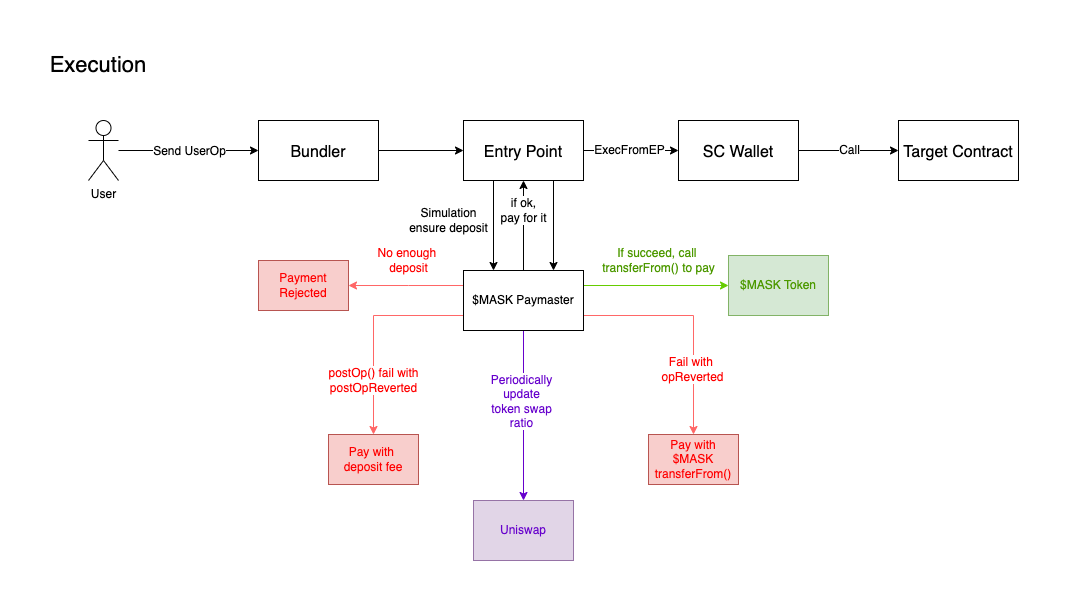
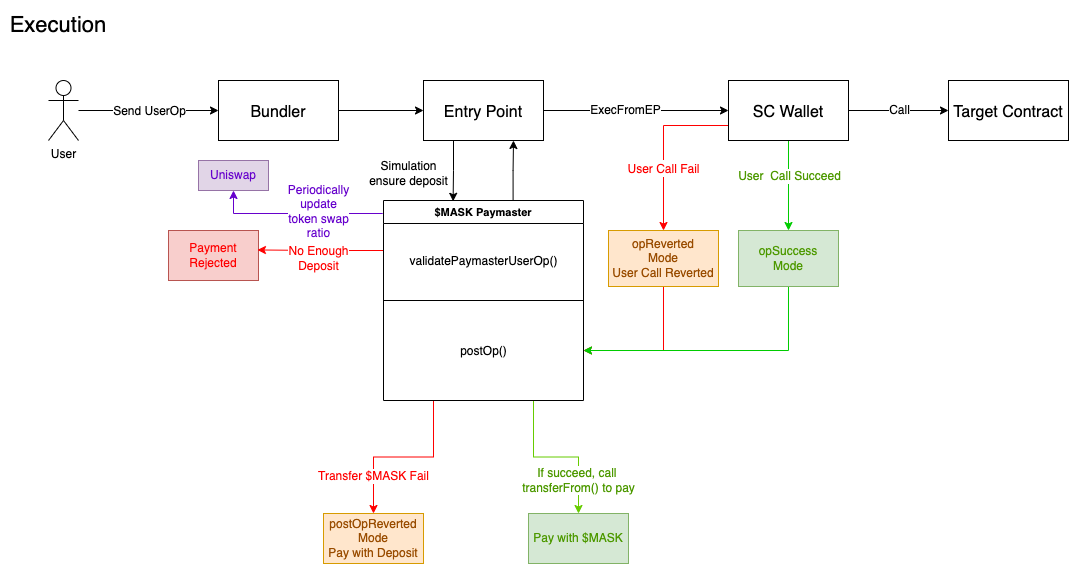
docs: modify workflow for paymaster

diff --git a/DOC/Workflow.md b/DOC/Workflow.md
@@ -34,11 +34,13 @@ We hope to give user an entirely gas-free procedure, thus, we have a `verifying 
 
 ![preparation](preparation.png)
 
-`Verifying paymaster` could sponsor transaction for qualified users. This paymaster will be used in two operations: `approve()` and `addDeposit()`. These two operation should be done in advance (especially for first-time user). Here, we must pay attention to the abuse of our verifying paymaster even though our users are qualified since we sponsor users for free. Our solution is to parse `callData` in `UserOperation` to ensure it calls the right contract and right function. Check [data structure of `UserOperation.callData`]
+`Verifying paymaster` could sponsor transaction for qualified users with supported operation. Here, this paymaster will be used in the operations: `approve()`. This operation should be done in advance (especially for first-time user). Here, we must pay attention to the malicious attack targeting our verifying paymaster since we sponsor users for free. Our solution is to parse `callData` in `UserOperation` to ensure it only sponsor the supported operation. Check [data structure of `UserOperation.callData`](callDataField.md)
 
 ### Execution Stage
 
-As stated in the former section, we use deposit mechanism. In this mechanism, every SC wallet need to deposit enough token before execution stage. If the execution is completed successfully, paymaster will call `transferFrom()` in $MASK token contract to transfer $MASK for gas fee directly. If paymaster fail to get paid, they'll decrease the deposit balance instead.
+As stated in the former section, we use deposit mechanism. In this mechanism, every SC wallet should have enough deposit balance before execution stage. In our case, we plan to cover the deposit fee for user. For qualified users, we will deposit for them in advance. Then, users with enough deposit balance in our paymaster is eligible to perform their `UserOperation` via our $MASK paymaster.
+
+If the execution is completed successfully, paymaster will call `transferFrom()` in $MASK token contract to transfer $MASK for gas fee directly. If paymaster fail to get paid, they'll decrease the deposit balance instead.
 
 ![execution](execution.png)
 
@@ -46,8 +48,10 @@ In the entire process, user may face three major exceptional condition.
 
 - User does not complete the preparation stage or their deposit is not enough: Our $MASK paymaster will reject to pay for this `UserOperation`.
 
-- `UserOperation` execution is failed: user still have to pay for their failed operation. $MASK paymaster will call $MASK token contract to transfer corresponding token amount.
+- User call in `UserOperation` execution is failed: user still have to pay for their failed operation. $MASK paymaster will call $MASK token contract to transfer corresponding token amount from user's contract wallet.
 
 - `postOp()` execution is failed: paymaster cannot get paid in `postOp()`. It will reduce the deposit of this user as a substitute.
 
 For token exchange (i.e. $ETH-$MASK), we decided to use a script to periodically update the token swap ratio to keep a relatively stable exchange ratio and also reduce the gas cost for instant token exchange.
+
+**NOTE**: For `opReverted` mode and `postOpReverted` mode, the effect caused by user call in `UserOperation` will be reverted even though the entire tx won't be reverted.
